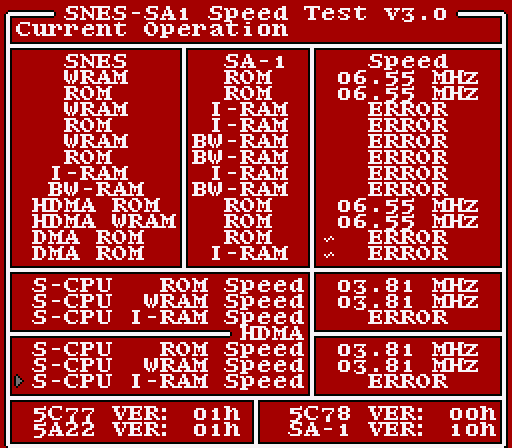
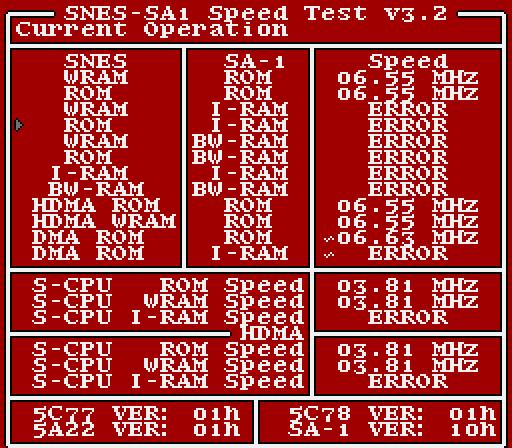
Update ZSNES samples

diff --git a/img/zsnes/README.md b/img/zsnes/README.md
@@ -1,3 +1,5 @@
+### Version 1.51 (speed test v3.2)
+![ZSNES](zsnes151_v32.png?raw=true "ZSNES")
 ### Version 1.51
 ![ZSNES](zsnes151.png?raw=true "ZSNES")
 ### Version 1.50
